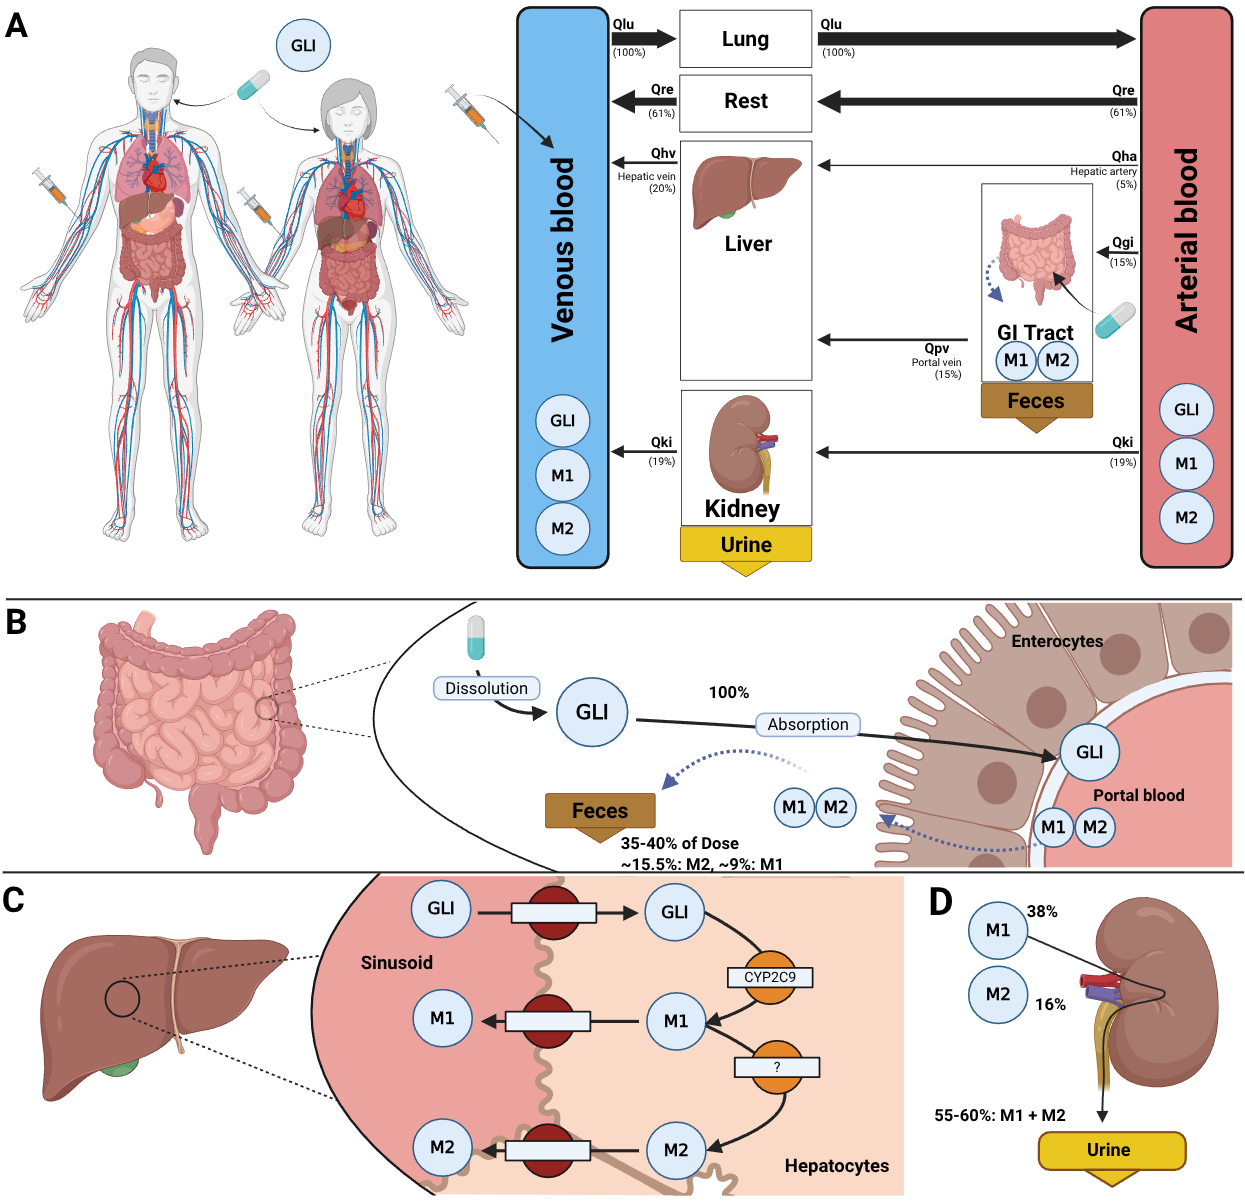
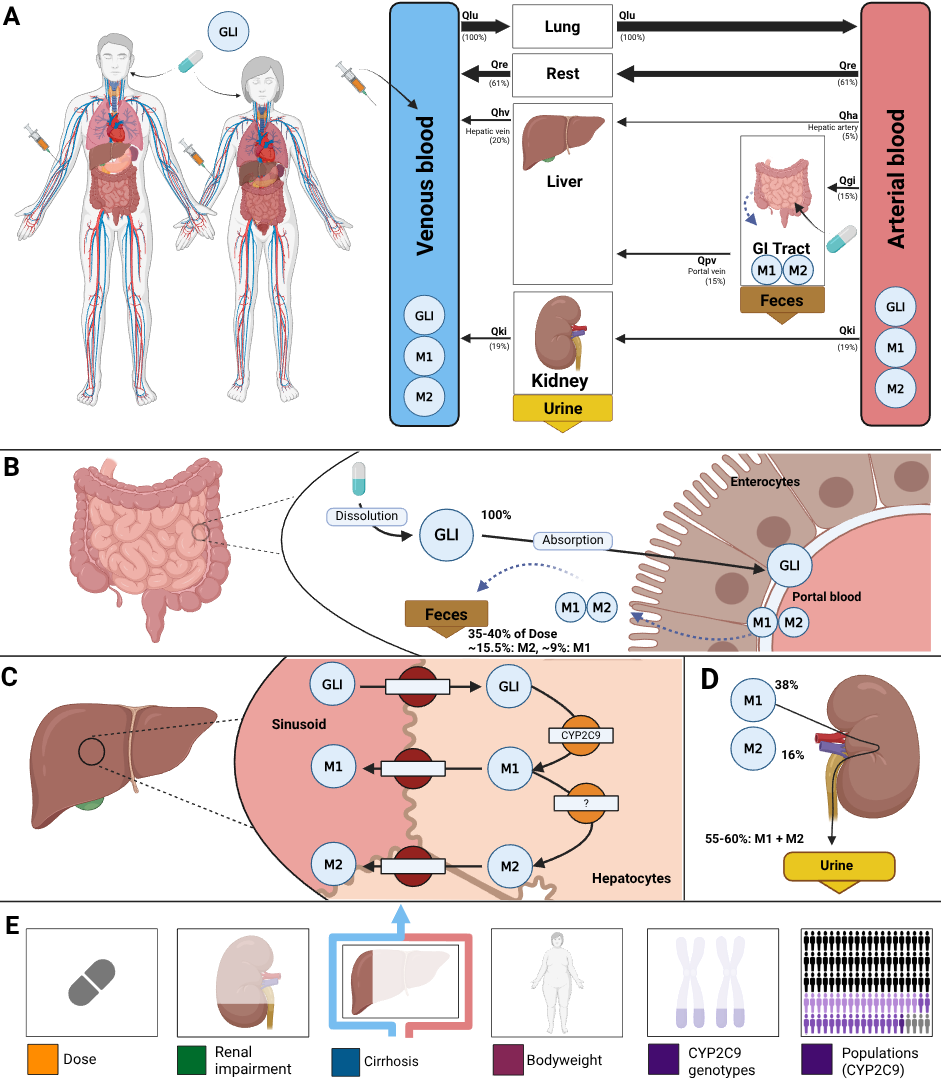
add disclaimer and reference

diff --git a/src/app.py b/src/app.py
@@ -381,7 +381,9 @@ def patients_table_display(load_buttons, saved_patients):
             table_data,
             show_column_summaries=False,
             pagination=True,
-            page_size=5
+            page_size=5,
+            selection=None,
+            show_download=False
         )}
         """
     )
@@ -512,8 +514,8 @@ def plots(df, labels):
 
 @app.cell
 def model_image(Path):
-    image_path = Path(__file__).parent.parent / "model" / "glimepiride_model.png"
-    mo.image(src=str(image_path))
+    model_img_path = Path(__file__).parent.parent / "model" / "glimepiride_model.png"
+    mo.image(src=str(model_img_path))
     return
 
 
@@ -521,11 +523,38 @@ def model_image(Path):
 def model_description():
     mo.md(
         """
-    **Whole-body PBPK model of glimepiride.**
+    **Whole-body PBPK model of glimepiride.** </br>
     **A)** Whole-body model illustrating glimepiride (GLI) administration (oral and intravenous), its systemic circulation via venous and arterial blood, and the key organs (liver, kidney, GI tract) involved in GLI metabolism, distribution, and excretion.
     **B)** Intestinal model showing dissolution and absorption of GLI by enterocytes. No enterohepatic circulation of M1 and M2 is assumed, but reverse transport via enterocytes is included.
     **C)** Hepatic model depicting CYP2C9-mediated metabolism of GLI to M1 and M2.
     **D)** Renal model highlighting the elimination of M1 and M2 via urine; unchanged GLI is not excreted renally.
+    **E)** Key factors influencing glimepiride disposition accounted for by the model: liver function (cirrhosis), renal impairment, CYP2C9 genotypes, bodyweight, and administered dose.
+    """
+    )
+    return
+
+
+@app.cell
+def disclaimer():
+    mo.md(
+        """
+    ## Disclaimer
+    The software is provided **AS IS**, without warranty of any kind, express or implied, including but not limited to the warranties of merchantability, fitness for a particular purpose and noninfringement. In no event shall the authors or copyright holders be liable for any claim, damages or other liability, whether in an action of contract, tort or otherwise, arising from, out of or in connection with the software or the use or other dealings in the software.<br>
+    This software is a research proof-of-principle and not fit for any clinical application. It is not intended to diagnose, treat, or inform medication dosing decisions. Always consult with qualified healthcare professionals for medical advice and treatment planning.
+    """
+    )
+    return
+
+
+@app.cell
+def reference():
+    mo.md(
+        """
+    ---
+    ## Reference
+    **A Digital Twin of Glimepiride for Personalized and Stratified Diabetes Treatment.**<br>
+    _Michelle Elias, Matthias König (2025)_<br>
+    Preprints 2025, 2025061264. (preprint). doi:10.20944/preprints202506.1264.v1
     """
     )
     return
